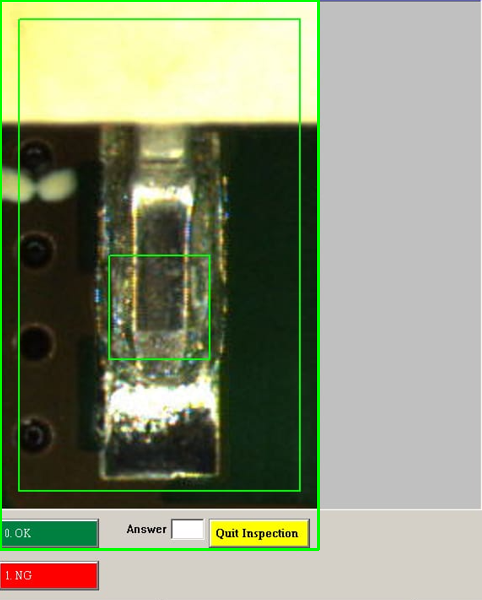
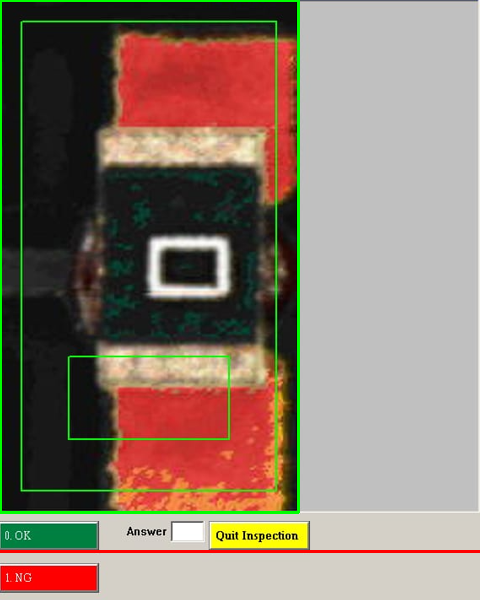
Feat: Fiz o ajuste e já está 100% completo só tá com o debug ainda mas já vou remover

diff --git a/src/services/screen_monitor.py b/src/services/screen_monitor.py
@@ -2,22 +2,12 @@
 Módulo responsável pela captura de tela e detecção do Layout da AOI.
 Modo One-Shot.
 
-ESTRATÉGIA v11 "PRIMEIRO BLOCO DE FOTO":
-═══════════════════════════════════════════
-O strip abaixo da barra tem esta estrutura:
-  [FOTO] → [CINZA #c0c0c0] → [BOTÕES/INTERFACE]
-
-v10 falhava porque varria de BAIXO PRA CIMA e pegava os botões.
-v11 varre de CIMA PRA BAIXO e para no primeiro bloco grande de cinza.
-
-MÉTODO:
-1. Cria máscara de cinza (spread ≤ 20, brilho 175-225)
-2. % de cinza por linha
-3. TOP: primeira linha com < 80% cinza (de cima pra baixo)
-4. BOTTOM: a partir do TOP, varre pra baixo.
-   Quando encontra ≥ 12 linhas CONSECUTIVAS com ≥ 80% cinza → PARA.
-   BOTTOM = última linha de foto antes desse bloco de cinza.
-5. LEFT/RIGHT: mesma lógica nas colunas (só na faixa TOP:BOTTOM)
+ESTRATÉGIA v11.1:
+Igual a v11 mas com duas melhorias:
+1. gray_gap reduzido de 12 → 6 (gap entre foto e botões é fino)
+2. Detecta botões coloridos (verde "0.OK", vermelho "1.NG") no strip
+   e usa como limite HARD — nunca vai além deles
+3. Também detecta a interface XP (#ece9d8 / #d4d0c8) como cinza
 """
 import cv2
 import numpy as np
@@ -104,12 +94,22 @@ class ScreenMonitor(QThread):
         return candidates[0][1]
 
     # =================================================================
-    # MÁSCARA DE CINZA
+    # MÁSCARA DE "NÃO-FOTO" (cinza + interface)
     # =================================================================
 
-    def _build_gray_mask(self, strip_bgr):
+    def _build_not_photo_mask(self, strip_bgr):
         """
-        Máscara booleana (h, w): True = pixel é cinza de interface.
+        Máscara booleana (h, w): True = pixel NÃO é foto.
+
+        Detecta:
+        - Cinza puro #c0c0c0 (192,192,192): fundo onde a foto fica
+        - Cinza interface XP #d4d0c8 (212,208,200): bordas da janela
+        - Cinza/bege #ece9d8 (236,233,216): fundo de botões XP
+        - Branco/quase-branco (#f0f0f0+): fundo de campos de input
+
+        Critério: spread ≤ 25 (R≈G≈B) E brilho ≥ 170
+        Isso pega TODOS os tons de cinza/bege da interface
+        mas NÃO pega fotos de PCB (que têm cores/contraste).
         """
         b = strip_bgr[:, :, 0].astype(np.int16)
         g = strip_bgr[:, :, 1].astype(np.int16)
@@ -120,52 +120,103 @@ class ScreenMonitor(QThread):
         spread = max_c - min_c
         brightness = (b + g + r) // 3
 
-        return (spread <= 20) & (brightness >= 175) & (brightness <= 225)
+        return (spread <= 25) & (brightness >= 170) & (brightness <= 250)
 
     # =================================================================
-    # ENCONTRAR BORDAS — DIREÇÃO ÚNICA (CIMA PRA BAIXO)
+    # LIMITE HARD: DETECTA ONDE COMEÇA A INTERFACE ABAIXO DA FOTO
     # =================================================================
 
-    def _find_photo_span(self, is_gray_arr, gray_gap=12):
+    def _find_interface_limit(self, strip_bgr, gray_mask):
         """
-        Encontra o span da foto num array booleano is_gray[].
+        Varre o strip de BAIXO PRA CIMA procurando onde a INTERFACE
+        começa (botões, texto, campos).
+
+        A interface abaixo da foto tem:
+        - Botões coloridos (verde "0. OK", vermelho "1. NG")
+        - Texto preto sobre fundo cinza ("Answer", "Quit Inspection")
+        - Campos de input brancos
+
+        Retorna a linha Y onde a interface começa (limite hard).
+        Se não encontrar, retorna strip_h (sem limite).
+        """
+        strip_h, strip_w = strip_bgr.shape[:2]
+
+        # Converte pra HSV para detectar botões verde/vermelho
+        hsv = cv2.cvtColor(strip_bgr, cv2.COLOR_BGR2HSV)
+
+        # Máscara de verde (botão "0. OK")
+        green_mask = cv2.inRange(hsv, (35, 80, 80), (85, 255, 255))
+        # Máscara de vermelho (botão "1. NG")
+        red_mask1 = cv2.inRange(hsv, (0, 80, 80), (10, 255, 255))
+        red_mask2 = cv2.inRange(hsv, (170, 80, 80), (180, 255, 255))
+        red_mask = cv2.bitwise_or(red_mask1, red_mask2)
+
+        # Combina: qualquer botão colorido
+        button_mask = cv2.bitwise_or(green_mask, red_mask)
+
+        # Conta pixels de botão por linha
+        button_per_row = np.sum(button_mask > 0, axis=1)
+
+        # Se uma linha tem >= 20 pixels de botão, é interface
+        min_button_pixels = 20
+
+        # Varre de BAIXO PRA CIMA procurando a primeira linha de botão
+        interface_start = strip_h
+        for row in range(strip_h - 1, -1, -1):
+            if button_per_row[row] >= min_button_pixels:
+                interface_start = row
+            elif row < interface_start - 5:
+                # Já passou do bloco de botões pra cima
+                break
+
+        # Agora varre de interface_start PRA CIMA procurando onde
+        # começa a zona de cinza/interface ACIMA dos botões
+        # (pode ter texto "Answer", margem, etc)
+        not_photo_pct = np.mean(gray_mask, axis=1)
+        for row in range(interface_start - 1, -1, -1):
+            if not_photo_pct[row] < 0.70:
+                # Esta linha tem foto/conteúdo, para aqui
+                interface_start = row + 1
+                break
+
+        return interface_start
+
+    # =================================================================
+    # ENCONTRAR BORDAS — DIREÇÃO ÚNICA
+    # =================================================================
+
+    def _find_photo_span(self, is_not_photo_arr, gap_limit=6):
+        """
+        Encontra o span da foto.
+
+        is_not_photo_arr: True = NÃO é foto (cinza/interface)
 
         Varre de CIMA PRA BAIXO:
-        1. Encontra o primeiro elemento NÃO-cinza → TOP
-        2. A partir de TOP, varre pra baixo. Conta cinzas consecutivos.
-           Quando encontra >= gray_gap cinzas seguidos → a foto acabou.
-           BOTTOM = último não-cinza antes desse bloco.
-
-        Isso NUNCA pega conteúdo depois do bloco de cinza (botões, etc).
-
-        Retorna (start, end) ou (None, None).
+        1. Primeiro False (= foto) → TOP
+        2. A partir de TOP, conta consecutivos True (não-foto).
+           Quando >= gap_limit → foto acabou.
         """
-        n = len(is_gray_arr)
+        n = len(is_not_photo_arr)
 
-        # TOP: primeiro não-cinza
         top = None
         for i in range(n):
-            if not is_gray_arr[i]:
+            if not is_not_photo_arr[i]:
                 top = i
                 break
 
         if top is None:
             return None, None
 
-        # BOTTOM: varre de top pra baixo
         bottom = top + 1
-        consecutive_gray = 0
+        consecutive_not_photo = 0
 
         for i in range(top + 1, n):
-            if not is_gray_arr[i]:
-                # É foto — atualiza bottom e reseta contador
+            if not is_not_photo_arr[i]:
                 bottom = i + 1
-                consecutive_gray = 0
+                consecutive_not_photo = 0
             else:
-                # É cinza — incrementa contador
-                consecutive_gray += 1
-                if consecutive_gray >= gray_gap:
-                    # Bloco grande de cinza → foto acabou
+                consecutive_not_photo += 1
+                if consecutive_not_photo >= gap_limit:
                     break
 
         if (bottom - top) < 5:
@@ -174,7 +225,7 @@ class ScreenMonitor(QThread):
         return top, bottom
 
     # =================================================================
-    # MOTOR DE RECORTE v11
+    # MOTOR DE RECORTE v11.1
     # =================================================================
 
     def _extract_photo(self, frame_bgr, bar_rect, max_height, label=""):
@@ -194,18 +245,24 @@ class ScreenMonitor(QThread):
 
         cv2.imwrite(str(DEBUG_DIR / f"{label}_01_strip.png"), strip)
 
-        # Máscara de cinza
-        gray_mask = self._build_gray_mask(strip)
+        # Máscara de "não-foto"
+        not_photo_mask = self._build_not_photo_mask(strip)
+
+        # Limite hard: onde a interface começa
+        interface_y = self._find_interface_limit(strip, not_photo_mask)
+        if interface_y < strip_h:
+            print(f"   [{label}] Interface detectada em Y={interface_y} "
+                  f"(corta {strip_h - interface_y}px de botões)")
+            # Marca tudo abaixo do limite como "não-foto"
+            not_photo_mask[interface_y:, :] = True
 
         # =============================================
-        # LINHAS: % de cinza por linha
+        # LINHAS
         # =============================================
-        row_gray_pct = np.mean(gray_mask, axis=1)
-        is_gray_row = row_gray_pct >= 0.80
+        row_not_photo_pct = np.mean(not_photo_mask, axis=1)
+        is_not_photo_row = row_not_photo_pct >= 0.75
 
-        # Encontra TOP e BOTTOM da foto (para no primeiro bloco de cinza)
-        result = self._find_photo_span(is_gray_row, gray_gap=12)
-        top, bottom = result
+        top, bottom = self._find_photo_span(is_not_photo_row, gap_limit=6)
 
         if top is None:
             print(f"⚠ [{label}] Sem foto detectada")
@@ -217,15 +274,13 @@ class ScreenMonitor(QThread):
         print(f"   [{label}] Linhas: top={top} bottom={bottom} (h={bottom-top})")
 
         # =============================================
-        # COLUNAS: % de cinza por coluna (SÓ na faixa TOP:BOTTOM)
+        # COLUNAS (só na faixa TOP:BOTTOM)
         # =============================================
-        band_mask = gray_mask[top:bottom, :]
-        col_gray_pct = np.mean(band_mask, axis=0)
-        is_gray_col = col_gray_pct >= 0.80
+        band_mask = not_photo_mask[top:bottom, :]
+        col_not_photo_pct = np.mean(band_mask, axis=0)
+        is_not_photo_col = col_not_photo_pct >= 0.75
 
-        # Encontra LEFT e RIGHT (para no primeiro bloco de cinza lateral)
-        result_col = self._find_photo_span(is_gray_col, gray_gap=12)
-        left, right = result_col
+        left, right = self._find_photo_span(is_not_photo_col, gap_limit=6)
 
         if left is None:
             left = 0
@@ -244,34 +299,40 @@ class ScreenMonitor(QThread):
         # === Debug ===
         debug_vis = strip.copy()
         cv2.rectangle(debug_vis, (left, top), (right, bottom), (0, 255, 0), 2)
+        if interface_y < strip_h:
+            cv2.line(debug_vis, (0, interface_y), (strip_w, interface_y),
+                      (0, 0, 255), 2)
         cv2.imwrite(str(DEBUG_DIR / f"{label}_03_detected.png"), debug_vis)
         cv2.imwrite(str(DEBUG_DIR / f"{label}_04_photo.png"), photo)
 
         # Graymap linhas
         gm_rows = np.zeros((strip_h, 40, 3), dtype=np.uint8)
         for row in range(strip_h):
-            bar_w = int(row_gray_pct[row] * 35)
-            color = (0, 0, 200) if is_gray_row[row] else (0, 255, 0)
+            bar_w = int(row_not_photo_pct[row] * 35)
+            color = (0, 0, 200) if is_not_photo_row[row] else (0, 255, 0)
             cv2.line(gm_rows, (0, row), (max(1, bar_w), row), color, 1)
         cv2.line(gm_rows, (0, top), (40, top), (255, 0, 255), 2)
         cv2.line(gm_rows, (0, min(bottom, strip_h - 1)),
                   (40, min(bottom, strip_h - 1)), (255, 0, 255), 2)
-        thresh_x = int(0.80 * 35)
+        if interface_y < strip_h:
+            cv2.line(gm_rows, (0, interface_y), (40, interface_y),
+                      (0, 0, 255), 2)
+        thresh_x = int(0.75 * 35)
         cv2.line(gm_rows, (thresh_x, 0), (thresh_x, strip_h), (0, 255, 255), 1)
         cv2.imwrite(str(DEBUG_DIR / f"{label}_graymap_rows.png"), gm_rows)
 
         # Graymap colunas
         gm_cols = np.zeros((40, strip_w, 3), dtype=np.uint8)
         for col in range(strip_w):
-            bar_h = int(col_gray_pct[col] * 35)
-            color = (0, 0, 200) if is_gray_col[col] else (0, 255, 0)
+            bar_h = int(col_not_photo_pct[col] * 35)
+            color = (0, 0, 200) if is_not_photo_col[col] else (0, 255, 0)
             cv2.line(gm_cols, (col, 40), (col, 40 - max(1, bar_h)), color, 1)
         if left > 0:
             cv2.line(gm_cols, (left, 0), (left, 40), (255, 0, 255), 2)
         if right < strip_w:
             cv2.line(gm_cols, (min(right, strip_w - 1), 0),
                       (min(right, strip_w - 1), 40), (255, 0, 255), 2)
-        thresh_y = 40 - int(0.80 * 35)
+        thresh_y = 40 - int(0.75 * 35)
         cv2.line(gm_cols, (0, thresh_y), (strip_w, thresh_y), (0, 255, 255), 1)
         cv2.imwrite(str(DEBUG_DIR / f"{label}_graymap_cols.png"), gm_cols)
 
